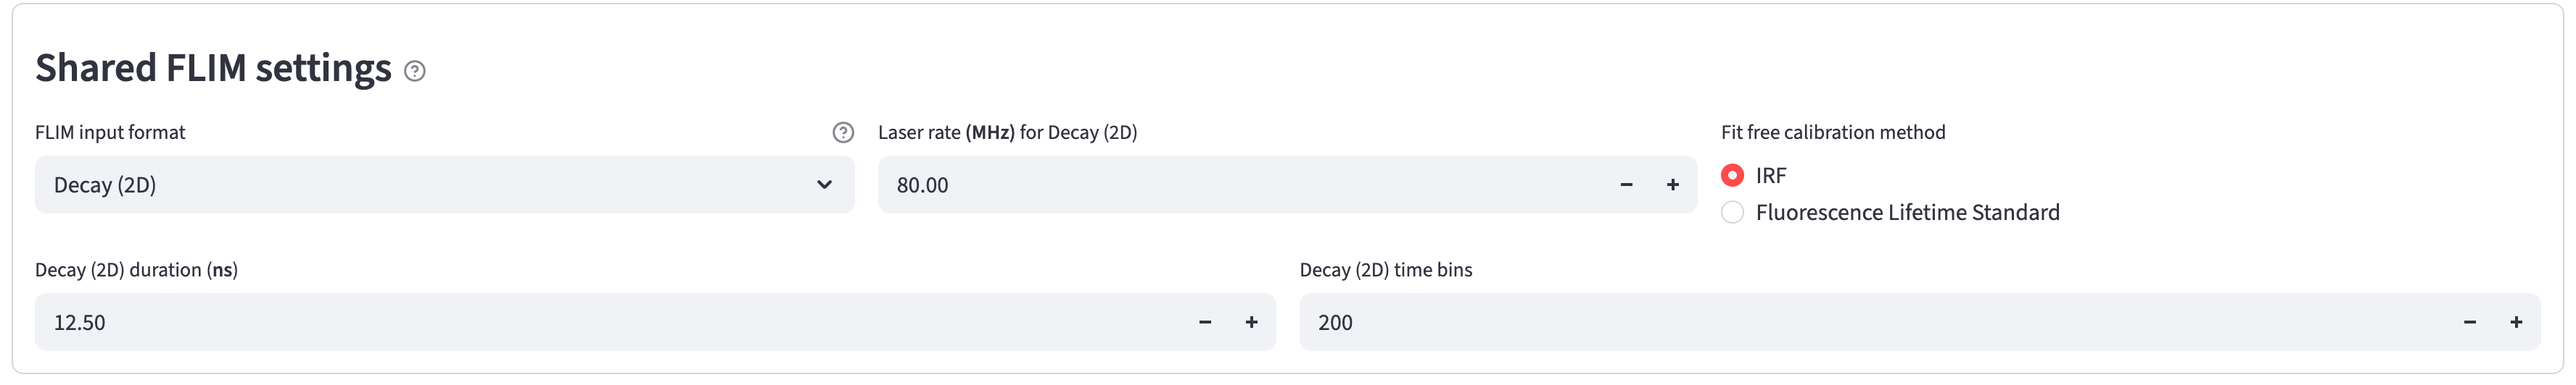
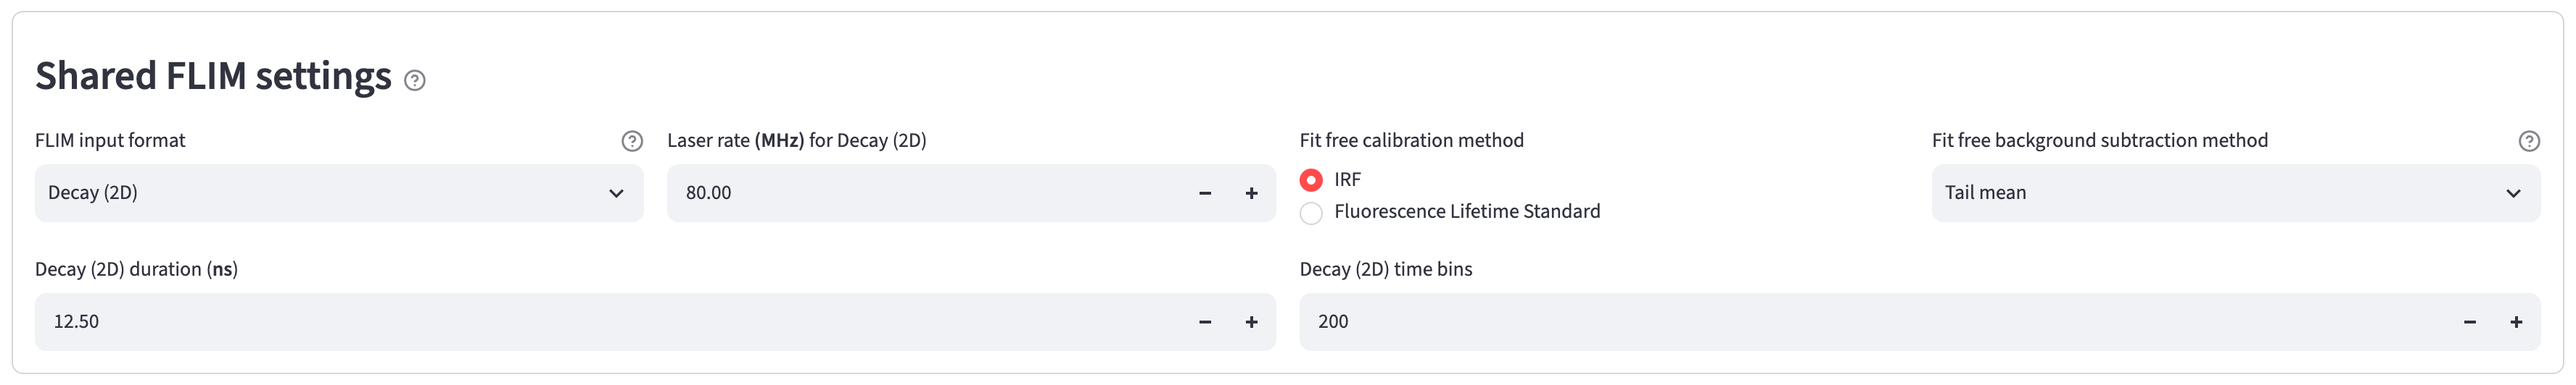
Document fit-free background options and the new example-data layout
- Add the Fit free background subtraction method setting (Tail mean,
  Pre-rise median, No correction) and describe each estimate and the
  removal of negative-bin clipping (flim_playground 34a49dd).
- Recapture config_2d_setting.png with the new dropdown.
- Replace the deleted 3d_decay_1channel.zip link in the quick start with
  the GitHub folder and update the download steps (flim_playground 2ed446e).
- Remove tracked .DS_Store files and refresh the docs badge.

diff --git a/extraction_ui_shots/README.md b/extraction_ui_shots/README.md
@@ -1,6 +1,6 @@
 # Data extraction screenshots
 
-The 2026-09-18 refresh replaced 31 screenshots and added the three QPI views. The derived-feature detail and full views remain from 2026-09-09. The current Numerical workflow combines metadata extraction, calibration, and numerical feature extraction in one step.
+The 2026-09-18 refresh replaced 31 screenshots and added the three QPI views. The derived-feature detail and full views remain from 2026-09-09. On 2026-11-11 (v1.15.3), `config_2d_setting.png` was recaptured at the same size to show the new **Fit free background subtraction method** control. The current Numerical workflow combines metadata extraction, calibration, and numerical feature extraction in one step.
 
 Keep extraction UI screenshots in this folder, using stable lowercase `snake_case.png` filenames. Refresh existing views in place, preserving their dimensions and conceptual content. Use `_full.png` for the full viewport companion to a focused crop. Standalone overview captures retain their descriptive names, such as `config.png`, `fov.png`, and the three `qpi_*.png` views. Link to assets using repository-relative paths and list them below; temporary capture files belong outside the documentation assets.
 
